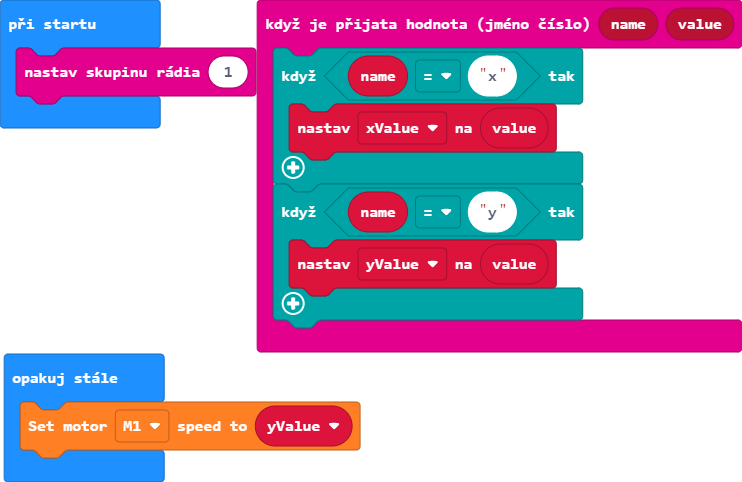
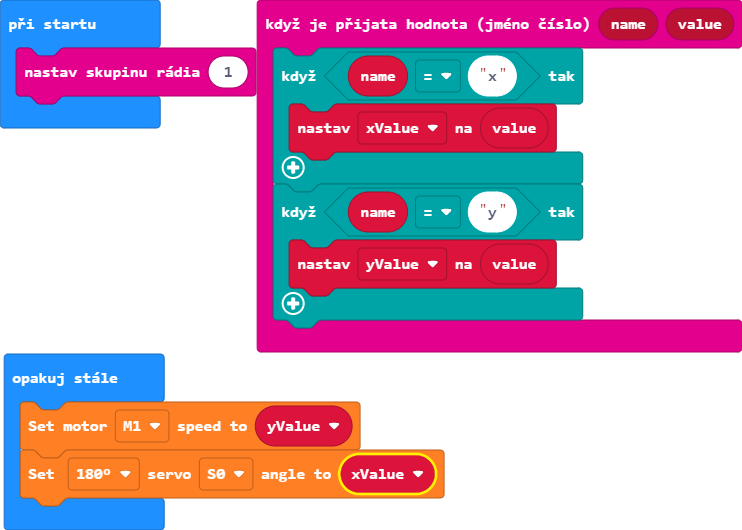
zataceni

diff --git a/main.ts b/main.ts
@@ -11,4 +11,5 @@ let xValue = 0
 radio.setGroup(1)
 basic.forever(function () {
     wuKong.setMotorSpeed(wuKong.MotorList.M1, yValue)
+    wuKong.setServoAngle(wuKong.ServoTypeList._180, wuKong.ServoList.S0, xValue)
 })
